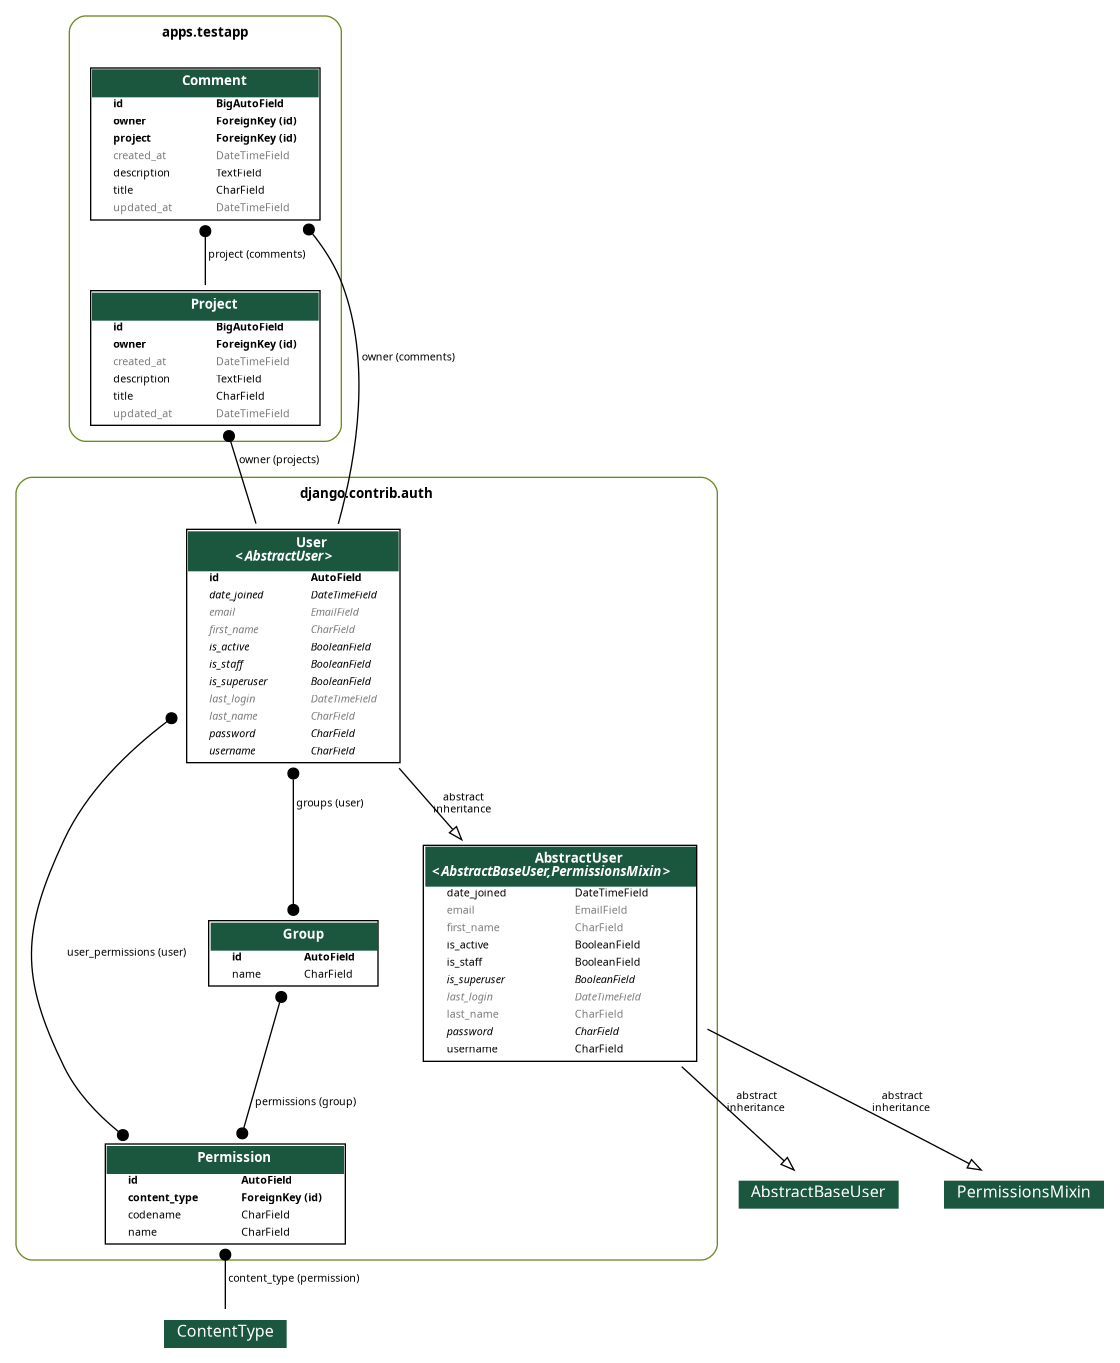
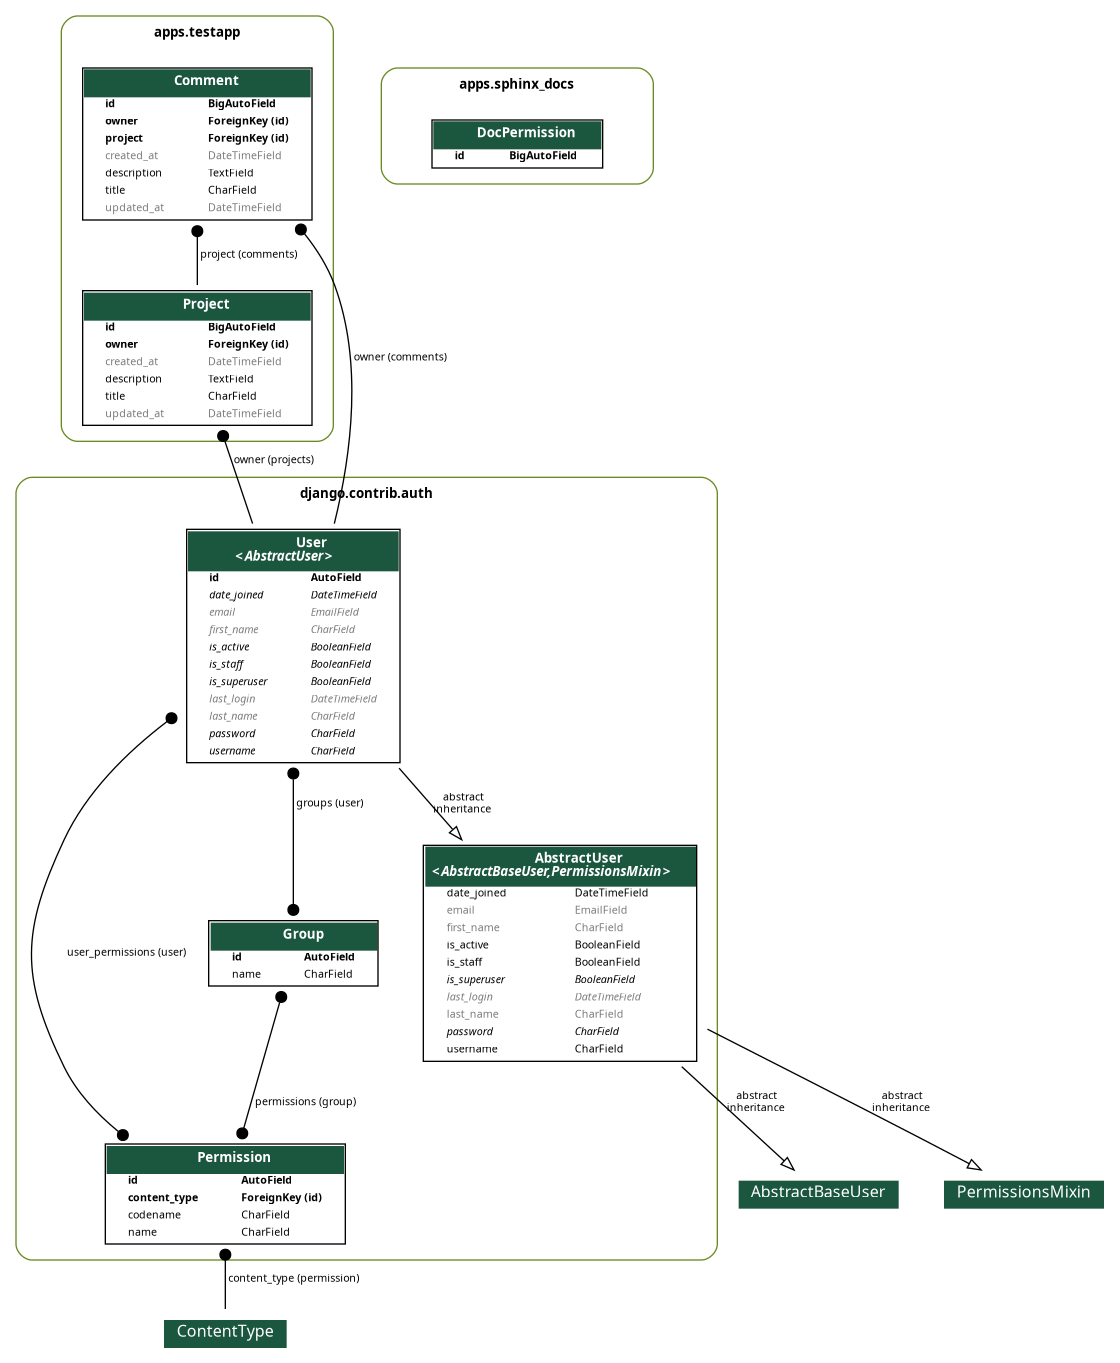
Изменил работу sphinx_docs

Changed region(s): [[0.1562, 0.0, 0.4062, 0.3698], [0.0312, 0.0308, 0.1562, 0.3081], [0.375, 0.0308, 0.5625, 0.1233]]

diff --git a/services/backend/apps/sphinx_docs/views.py b/services/backend/apps/sphinx_docs/views.py
@@ -1,33 +1,37 @@
 """Docstring for services.backend.apps.testapp.views."""
 
-from pathlib import Path
-
-from django.contrib.auth.decorators import login_required
+from django.contrib.auth.views import redirect_to_login
 from django.http import HttpRequest, HttpResponse
-from django.views.static import serve
+from django.shortcuts import redirect
+from django.urls import reverse
+from django.views import View
 
-from settings.settings import BASE_DIR
 
+class ProtectedSphinxView(View):
+    """Docstring for ProtectedSphinxView."""
 
-@login_required
-def sphinx_docs(request: HttpRequest, path: str = "") -> HttpResponse:
-    """Функция для ограничения доступа к документации.
+    def get(self, request: HttpRequest, path: str = "") -> HttpResponse:
+        """Docstring for get.
 
-    Документация создается через Sphinx.
-    Доступ получают авторизированные пользователи через /admin/
+        :param self: Description
+        :param request: Description
+        :type request: HttpRequest
+        :param path: Description
+        :type path: str
+        """
+        if not request.user.is_authenticated:
+            login_url = reverse("admin:login")
+            next_url = request.get_full_path()
+            return redirect_to_login(next_url, login_url)
 
-    Из текущих проблем:
+        if not request.user.has_perm("docs.view_sphinx"):
+            return redirect(reverse("home"))
 
-    1. После авторизации нет перехода на страницу документации. Нужно заходить по ссылке
+        response = HttpResponse()
 
-    2. Нужно подправить формат вывода документации
+        # При такое схеме работы есть ну удалять заголовки то будет два заголовка
+        if "Content-Type" in response:
+            del response["Content-Type"]
 
-    :param request: Description
-    :type request: HttpRequest
-    :param path: Description
-    :type path: str
-    :return: Description
-    :rtype: HttpResponse
-    """
-    docs_path = Path(BASE_DIR) / "docs" / "_build" / "html"
-    return serve(request, path, str(docs_path))
+        response["X-Accel-Redirect"] = f"/internal/sphinx/{path}"
+        return response

diff --git a/services/backend/apps/sphinx_docs/migrations/0001_initial.py b/services/backend/apps/sphinx_docs/migrations/0001_initial.py
@@ -1,0 +1,23 @@
+# Generated by Django 6.0 on 2025-12-07 21:31
+
+from django.db import migrations, models
+
+
+class Migration(migrations.Migration):
+
+    initial = True
+
+    dependencies = [
+    ]
+
+    operations = [
+        migrations.CreateModel(
+            name='DocPermission',
+            fields=[
+                ('id', models.BigAutoField(auto_created=True, primary_key=True, serialize=False, verbose_name='ID')),
+            ],
+            options={
+                'permissions': [('view_sphinx', 'Может просматривать документацию Sphinx')],
+            },
+        ),
+    ]

diff --git a/services/backend/apps/sphinx_docs/models.py b/services/backend/apps/sphinx_docs/models.py
@@ -1,1 +1,25 @@
 """Docstring for services.backend.apps.sphinx_docs.models."""
+
+from typing import ClassVar
+
+from django.db import models
+
+
+class DocPermission(models.Model):
+    """Docstring for DocPermission."""
+
+    class Meta:
+        """Docstring for Meta."""
+
+        permissions: ClassVar[dict] = [
+            ("view_sphinx", "Может просматривать документацию Sphinx"),
+        ]
+
+    def __str__(self) -> str:
+        """Docstring for __str__.
+
+        :param self: Description
+        :return: Description
+        :rtype: str
+        """
+        return "DocPermission"

diff --git a/services/backend/settings/settings.py b/services/backend/settings/settings.py
@@ -213,3 +213,8 @@ GRAPH_MODELS = {
     "group_models": True,
     "app_labels": ["testapp", "sphinx_docs", "auth"],
 }
+
+# statinc files
+# Не позволяет копировать папку целиком - только файлы из папки  # noqa: RUF003
+# Пришлось создавать ln -s docs/_build/html в apps/sphinx_docs/statis
+# STATICFILES_DIRS = [BASE_DIR / "docs/_build/html"]  # noqa: ERA001

diff --git a/services/backend/apps/sphinx_docs/urls.py b/services/backend/apps/sphinx_docs/urls.py
@@ -2,9 +2,9 @@
 
 from django.urls import path
 
-from apps.sphinx_docs.views import sphinx_docs
+from apps.sphinx_docs.views import ProtectedSphinxView
 
 urlpatterns = [
-    path("", sphinx_docs),
-    path("<path:path>", sphinx_docs),
+    path("<path:path>", ProtectedSphinxView.as_view(), name="sphinx_docs"),
+    path("", ProtectedSphinxView.as_view(), name="sphinx_docs_root"),
 ]
